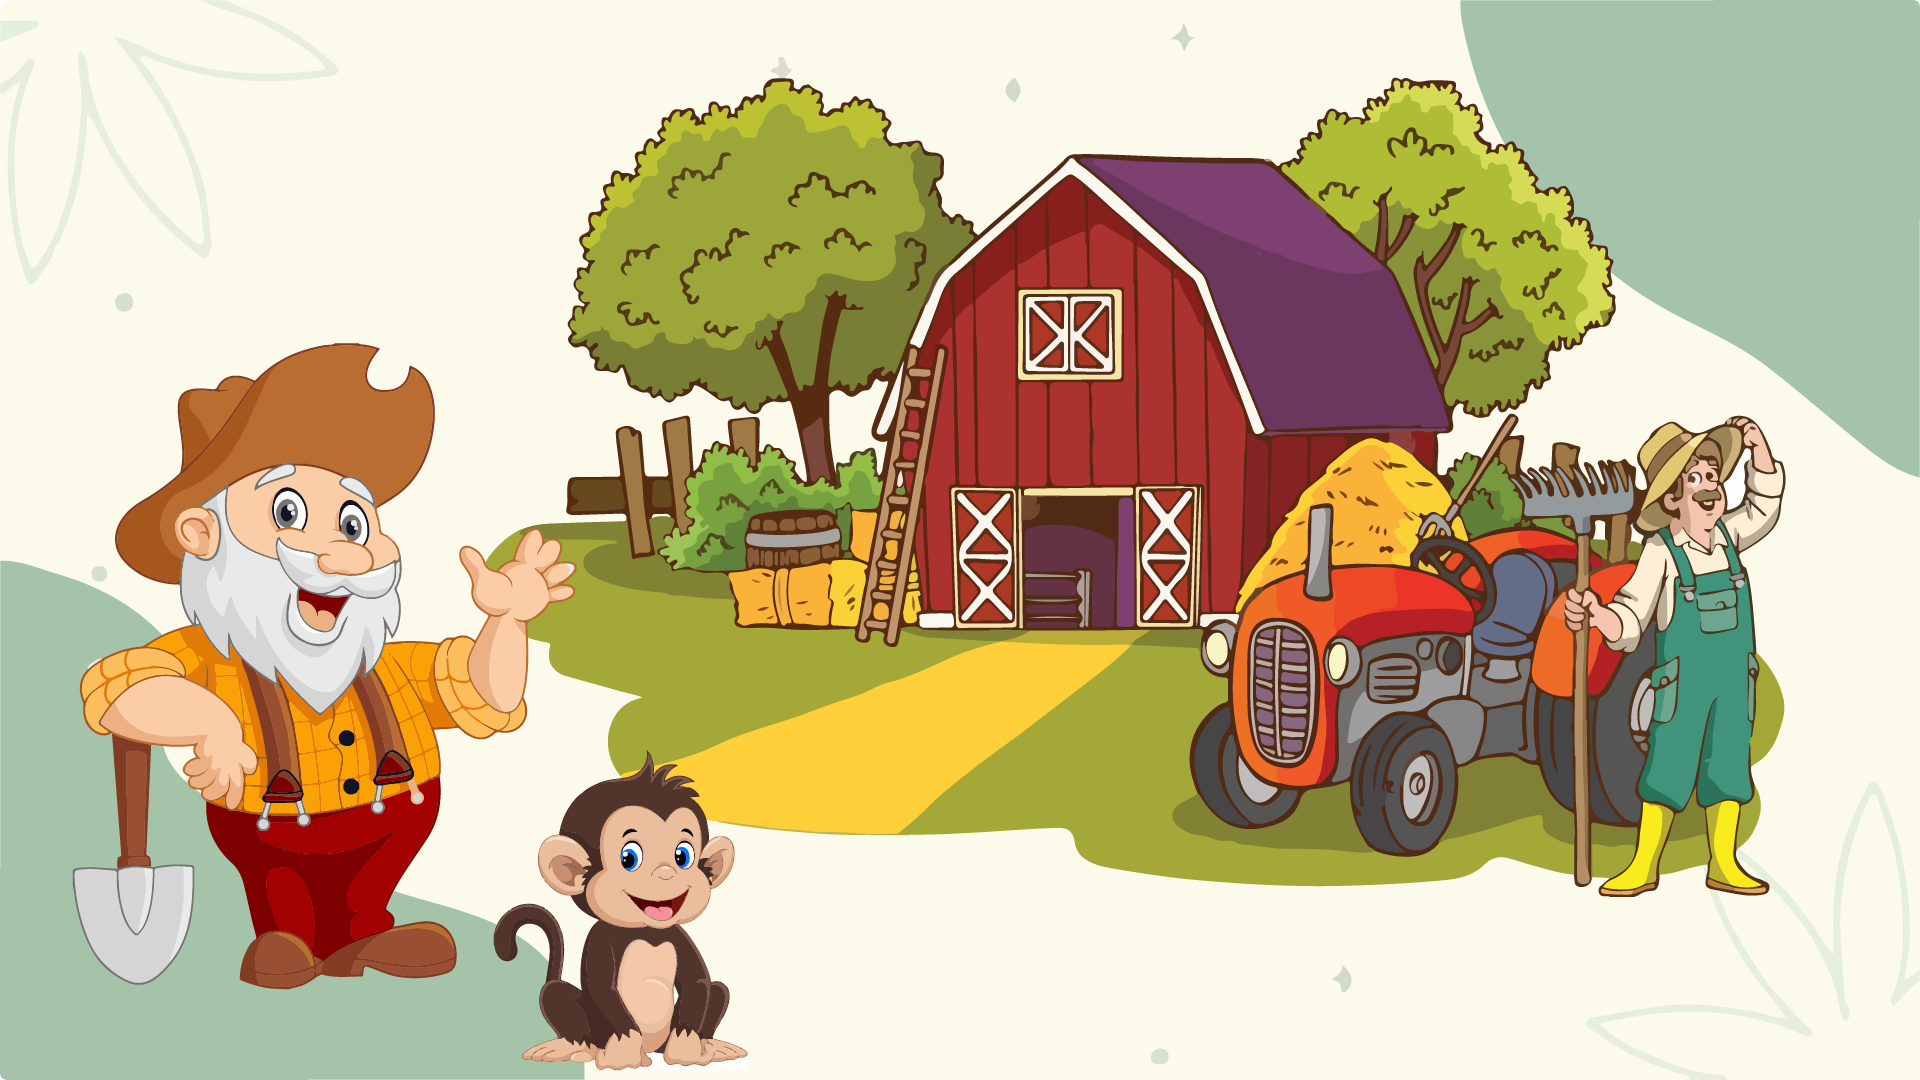
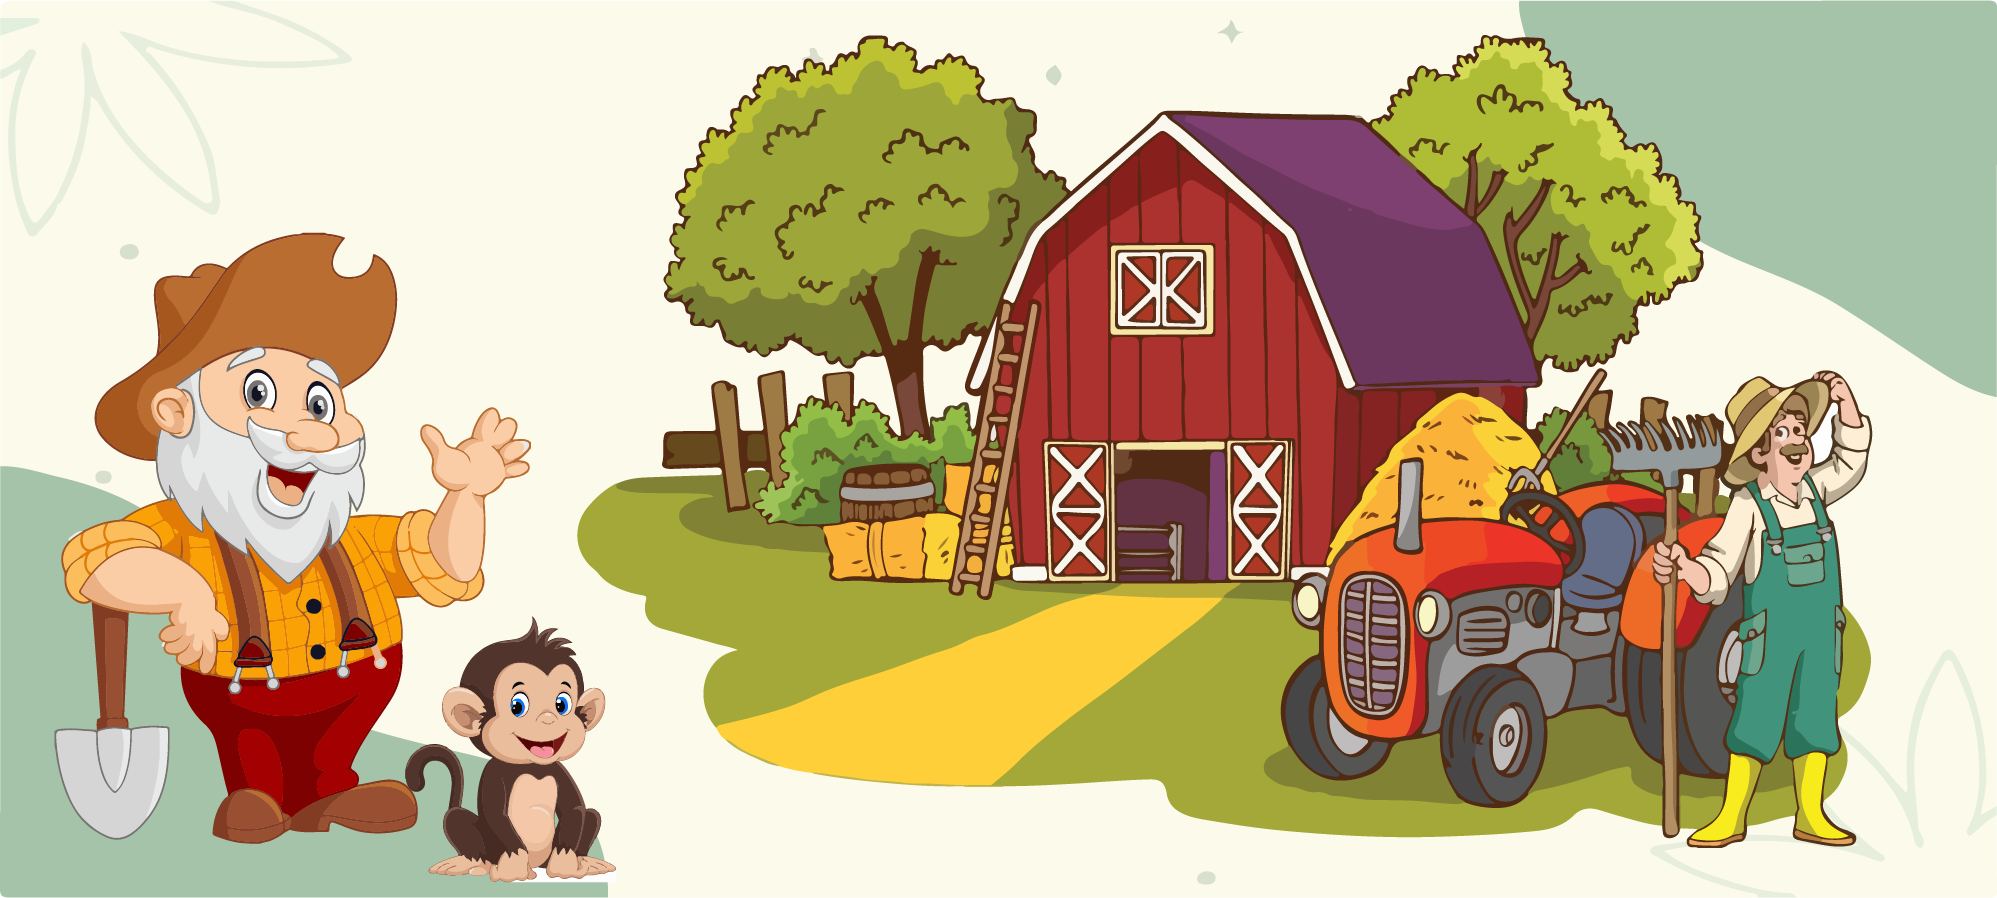
change img r

diff --git a/src/components/HeroOne.jsx b/src/components/HeroOne.jsx
@@ -1,9 +1,9 @@
 "use client";
 
 import React from "react";
-import "react-responsive-carousel/lib/styles/carousel.min.css"; // requires a loader
+import "react-responsive-carousel/lib/styles/carousel.min.css";
 import { Carousel } from "react-responsive-carousel";
-import { BiArrowBack } from "react-icons/bi";
+
 import one from "../assets/images/one.png";
 const HeroBanner = () => {
   return (
@@ -17,55 +17,19 @@ const HeroBanner = () => {
         interval={3000}
       >
         <div className="w-full overflow-hidden font-Oswald ">
-          <div className="relative h-screen overflow-hidden bg-[#86b979] ">
+          <div className="relative shadow-xl overflow-hidden border-double border-2 border-[#86b979] ">
             <img
               src={one}
-              className="absolute object-cover object-center transform -translate-x-1/2 -translate-y-1/2 top-1/2 left-1/2"
+              className="aspect-[16/10] md:aspect-auto object-cover  "
             />
-
-            <div className="container relative z-10 flex items-center w-4/5 py-16 mx-auto my-24 border-4 border-white rounded-lg md:my-32">
-              <div className="relative z-10 flex flex-col items-center justify-between w-full opacity-30aaaaaaaaaaaa ">
-                <p className="flex flex-col items-center text-6xl font-extrabold text-center text-black md:text-8xl">
-                  Zootopia - The Funyard
-                </p>
-                <p className="flex flex-col items-center max-w-lg mt-6 text-lg font-extrabold text-center text-white font-poppins">
-                  Educational Tour - Know more about animals' behaviors,
-                  habitats, diets, and general care at Zootopia
-                </p>
-                <a
-                  href="#"
-                  className="block px-4 py-3 mt-10 text-lg font-bold text-white uppercase bg-gray-800 hover:bg-gray-900"
-                >
-                  get started
-                </a>
-              </div>
-            </div>
           </div>
         </div>
-        <div className="w-full font-Oswald  md:h-[700px] overflow-hidden ">
-          <div className="relative h-screen overflow-hidden bg-[#86b979] ">
+        <div className="w-full overflow-hidden font-Oswald ">
+          <div className="relative overflow-hidden border-2 border-green-500 border-double shadow-2xl ">
             <img
-              src="https://images.unsplash.com/photo-1561016444-14f747499547?ixlib=rb-4.0.3&ixid=M3wxMjA3fDB8MHxwaG90by1wYWdlfHx8fGVufDB8fHx8fA%3D%3D&auto=format&fit=crop&w=2231&q=80"
-              className="absolute object-cover object-center transform -translate-x-1/2 -translate-y-1/2 aspect-[16/9] md:aspect-auto opacity-30 top-1/2 left-1/2"
+              src={one}
+              className="aspect-[16/10] md:aspect-auto object-cover  "
             />
-
-            <div className="container relative z-10 flex items-center w-4/5 py-16 mx-auto my-24 border-4 border-white rounded-lg md:my-32">
-              <div className="relative z-10 flex flex-col items-center justify-between w-full">
-                <p className="flex flex-col items-center text-6xl font-extrabold text-center text-black md:text-8xl">
-                  Zootopia - The Funyard
-                </p>
-                <p className="flex flex-col items-center max-w-lg mt-6 text-lg font-extrabold text-center text-white font-poppins">
-                  Educational Tour - Know more about animals' behaviors,
-                  habitats, diets, and general care at Zootopia
-                </p>
-                <a
-                  href="#"
-                  className="block px-4 py-3 mt-10 text-lg font-bold text-white uppercase bg-gray-800 hover:bg-gray-900"
-                >
-                  get started
-                </a>
-              </div>
-            </div>
           </div>
         </div>
       </Carousel>

diff --git a/src/index.css b/src/index.css
@@ -10,5 +10,5 @@ body {
   font-family: "Poppins", sans-serif;
 }
 .text-stroke-3 {
-  -webkit-text-stroke: 1px white;
+  -webkit-text-stroke: 3px #000;
 }
